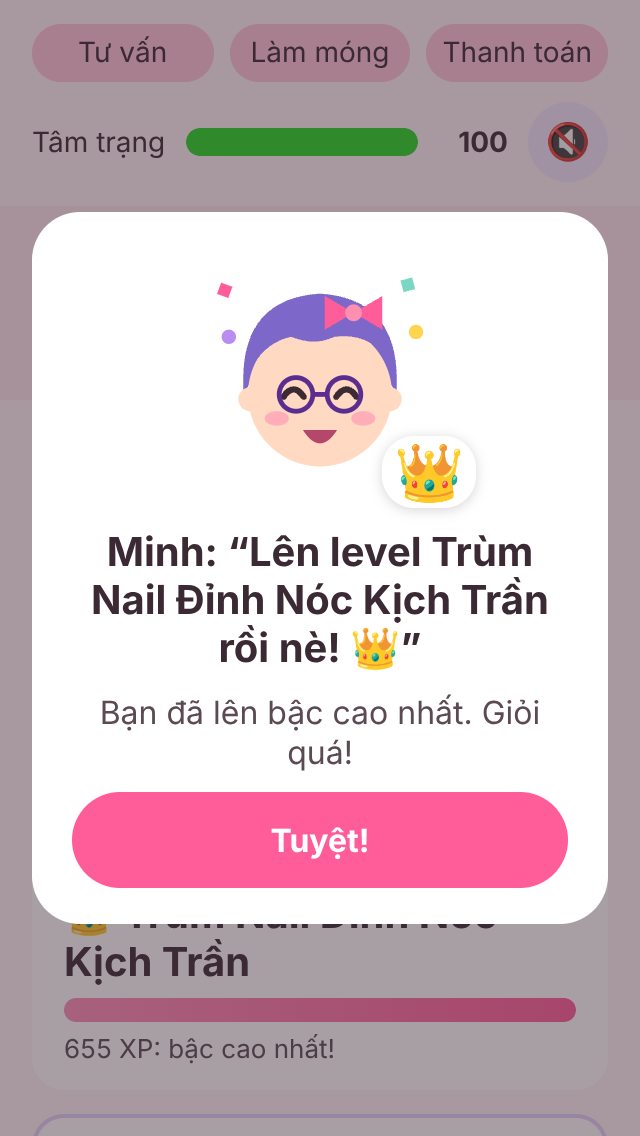
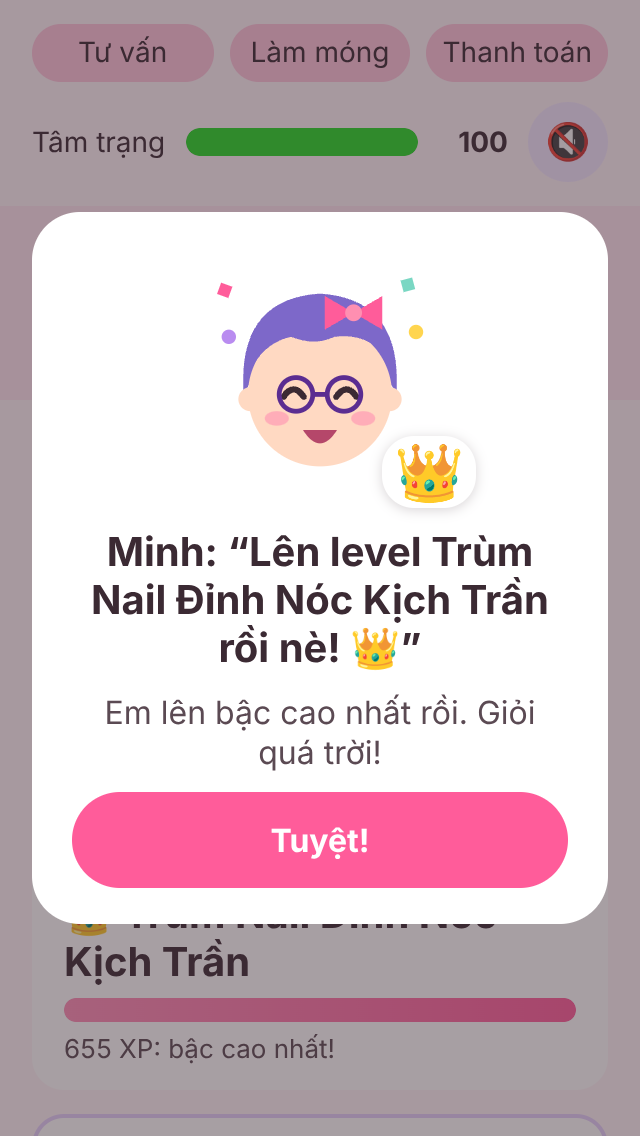
013 review fixes: male companion says "anh", "em" sweep, client pronouns
Overseer review of 7924b1f (smoke:api 12/13: the male-companion reply had
no self-reference):
- Prompts: one shared rule (companion-core vietnameseSelfRule) for every
  Vietnamese bestie and corrections prompt. Male: "Call yourself 'anh'... In
  every Vietnamese reply, refer to yourself as 'anh' at least once (e.g.
  'anh thấy…', 'anh thích…', 'anh tin em làm được'), without forcing it into
  every sentence. Never 'chị', 'tôi' or 'mình' alone." Female: the same
  with "chị". The smoke check is unchanged.
- vi: the top-rank subtitle and every other player-facing "bạn" now say "em"
  ("bạn thân", best friend, stays). Test-guarded by the i18n sweep script.
- Client pronouns: each client file has "pronoun" (Tom: he; the rest: she;
  validated). English results/station text uses {cShe}/{CShe}/{cHer}
  ("He walked out", "his request"), defaulting to "they" when no client is
  given. The generic skill label is "Asking what the client wants". The
  Vietnamese text already said "khách".

Tests: 260 pass (18 files, +1 pronoun test; companion prompt test checks
the "anh at least once" rule). Build passes. Evidence: story-013 re-shot
(en+vi 320).

OVERSEER: please re-run smoke:api (13 checks).

SAFE TO PAUSE. Stopping early to save usage (4:25 PM PT): 013 is done
except art, and the 008/011/012 polish items wait for the owner's playtest
findings rather than guesses.

Claude-Session: https://claude.ai/code/session_01Fx5cxFjSfz8L37QZFocT7H

Changed region(s): [[0.1562, 0.6162, 0.7188, 0.6778], [0.75, 0.6162, 0.8438, 0.647]]

diff --git a/src/game/ui/results-screen.ts b/src/game/ui/results-screen.ts
@@ -1,3 +1,5 @@
+import { clientGrammar } from '../types';
+import type { ClientPronoun } from '../types';
 import { scoreAppointment } from '../scoring';
 import type { ScoreResult, ScoringConfig } from '../scoring';
 import { ENGLISH_KEYS, SKILL_KEYS, TurnError } from '../types';
@@ -29,6 +31,8 @@ export interface ResultsScreenOptions {
   helpLanguage: HelpLanguage;
   /** Story 006: which roster client (sent to grading). */
   clientId?: string;
+  /** The client's pronoun for English text ("She walked out" / "He walked out"); "they" when not given. */
+  clientPronoun?: ClientPronoun;
   /** Story 006: the Next client button's label during a shift ("Next client (2/3)", "Shift done!"). */
   nextLabel?: string;
   /** Story 005: the finished nails and their match (0-100), for the review and the stars. */
@@ -136,6 +140,7 @@ function translatableReview(text: string, translations: TranslationCache, full: 
 /** Mount the results screen into `container` and start grading. `destroy` ignores a grading that is still running. */
 export function createResultsScreen(container: HTMLElement, options: ResultsScreenOptions): { destroy: () => void } {
   const { clientName, result, level, config, grade, onNextClient, onBackToMenu, translations, helpLanguage, extras } = options;
+  const who = clientGrammar(options.clientPronoun);
   let destroyed = false;
 
   const show = (...nodes: HTMLElement[]): void => {
@@ -145,7 +150,7 @@ export function createResultsScreen(container: HTMLElement, options: ResultsScre
   const showLoading = (): void => {
     const box = el('div', 'results-message');
     box.setAttribute('role', 'status');
-    box.append(el('p', '', t('results.writingReview', { name: clientName })), el('span', 'results-spinner'));
+    box.append(el('p', '', t('results.writingReview', { ...who, name: clientName })), el('span', 'results-spinner'));
     show(box);
   };
 
@@ -154,7 +159,7 @@ export function createResultsScreen(container: HTMLElement, options: ResultsScre
     box.setAttribute('role', 'alert');
     const unavailable = error instanceof TurnError && error.code === 'missing_api_key';
     box.append(
-      el('p', '', guardMessage(error) ?? (unavailable ? t('results.reviewUnavailable') : t('results.reviewTrouble', { name: clientName }))),
+      el('p', '', guardMessage(error) ?? (unavailable ? t('results.reviewUnavailable') : t('results.reviewTrouble', { ...who, name: clientName }))),
       button(t('common.tryAgain'), () => void run()),
       button(t('results.backToMenu'), onBackToMenu, true),
     );
@@ -171,9 +176,9 @@ export function createResultsScreen(container: HTMLElement, options: ResultsScre
     tip.append(el('span', '', `${t('results.tip')}: `), el('strong', '', t('results.tipAmount', { dollars: score.tip })));
 
     const notes: HTMLElement[] = [];
-    if (score.goalMet) notes.push(el('p', 'results-note good', t('results.goalMet')));
-    else if (grading.rebooked && !score.failed) notes.push(el('p', 'results-note', t('results.rebooked')));
-    score.failReasons.forEach((reason) => notes.push(el('p', 'results-note bad', t(`results.fail.${reason}`))));
+    if (score.goalMet) notes.push(el('p', 'results-note good', t('results.goalMet', who)));
+    else if (grading.rebooked && !score.failed) notes.push(el('p', 'results-note', t('results.rebooked', who)));
+    score.failReasons.forEach((reason) => notes.push(el('p', 'results-note bad', t(`results.fail.${reason}`, who))));
 
     const actions = el('div', 'results-actions');
     actions.append(button(options.nextLabel ?? t('results.nextClient'), onNextClient), button(t('results.backToMenu'), onBackToMenu, true));

diff --git a/src/game/i18n/index.ts b/src/game/i18n/index.ts
@@ -1,6 +1,7 @@
 import { companionFrom, companionGrammar } from '../companion-core';
 import { readStored } from '../safe-storage';
 import { getHelpLanguage } from '../settings';
+import { clientGrammar } from '../types';
 import en from './en.json';
 import vi from './vi.json';
 
@@ -24,7 +25,7 @@ const PLACEHOLDER = /\{(\w+)\}/g;
  * "Anh/anh"), {maiShe}/{maiHer} (English she/her or he/his). Grammar exists in one language only, so these may appear
  * in just one table. {mai}, the companion's name, is filled too but must appear in both, like any placeholder.
  */
-export const GRAMMAR_PLACEHOLDERS: readonly string[] = ['self', 'selfLower', 'maiShe', 'maiHer'];
+export const GRAMMAR_PLACEHOLDERS: readonly string[] = ['self', 'selfLower', 'maiShe', 'maiHer', 'cShe', 'CShe', 'cHer'];
 
 /** The companion params for `t`, from the device's saved companion (Mai, female by default). */
 export function companionParams(): StringParams {
@@ -86,7 +87,10 @@ export function getLanguage(): Language {
 /** Interface text for `key` in `language` (the saved language by default). */
 export function t(key: StringKey, params?: StringParams, language: Language = getLanguage()): string {
   const template = TABLES[language][key];
-  return fillTemplate(template, /\{(mai|self|selfLower|maiShe|maiHer)\}/.test(template) ? { ...companionParams(), ...params } : params);
+  // Client grammar ({cShe}/{CShe}/{cHer}) defaults to "they" when the caller doesn't say who the client is.
+  const companion = /\{(mai|self|selfLower|maiShe|maiHer)\}/.test(template) ? companionParams() : {};
+  const client = /\{(cShe|CShe|cHer)\}/.test(template) ? clientGrammar() : {};
+  return fillTemplate(template, { ...client, ...companion, ...params });
 }
 
 /** Keep `<html lang>` in step with the interface language, so screen readers and fonts use the right voice and shaping. */

diff --git a/src/game/companion-core.ts b/src/game/companion-core.ts
@@ -79,6 +79,16 @@ export function companionGrammar(gender: CompanionGender): { self: string; selfL
   return gender === 'male' ? { self: 'Anh', selfLower: 'anh', she: 'he', She: 'He', her: 'his' } : { self: 'Chị', selfLower: 'chị', she: 'she', She: 'She', her: 'her' };
 }
 
+/**
+ * How the companion talks about themself in Vietnamese (overseer, 2026-11-10: the male companion must sound like a
+ * friendly "anh", as naturally as Mai says "chị"). Used by every Vietnamese bestie and corrections prompt.
+ */
+export function vietnameseSelfRule(gender: CompanionGender): string {
+  return gender === 'male'
+    ? 'You are a man. Call yourself "anh" and the player "em", like a friendly older brother at the salon. In every Vietnamese reply, refer to yourself as "anh" at least once (for example "anh thấy…", "anh thích…", "anh tin em làm được", "để anh chỉ em"), without forcing it into every sentence. Never call yourself "chị", "tôi" or "mình" alone.'
+    : 'Call yourself "chị" and the player "em", like a friendly older sister at the salon. Refer to yourself as "chị" naturally (for example "chị thấy…", "chị thích…", "chị tin em làm được"). Never call yourself "tôi".';
+}
+
 /** Fill a persona template ({name}, {She}, {she}, {her}) for this companion. */
 export function personaFor(template: string, companion: CompanionIdentity): string {
   const g = companionGrammar(companion.gender);

diff --git a/src/game/types.ts b/src/game/types.ts
@@ -51,6 +51,8 @@ export interface ClientPersona {
   /** Story 005: what the client wants done to her nails, as data (compared with the finished design). */
   nailRequest?: NailRequest;
   /** Story 006: roster data. */
+  /** Story 006 follow-up: the client's pronoun for English interface text (Tom is "he"). */
+  pronoun: ClientPronoun;
   difficulty: Difficulty;
   /** The hard-client types this client covers (the brief's list). */
   types: ClientType[];
@@ -63,6 +65,13 @@ export interface ClientPersona {
 }
 
 export const DIFFICULTIES = ['easy', 'medium', 'hard'] as const;
+export const CLIENT_PRONOUNS = ['she', 'he', 'they'] as const;
+export type ClientPronoun = (typeof CLIENT_PRONOUNS)[number];
+
+/** English interface grammar for a client: {cShe}/{CShe}/{cHer} in the string tables ("they" when unknown). */
+export function clientGrammar(pronoun: ClientPronoun = 'they'): { cShe: string; CShe: string; cHer: string } {
+  return pronoun === 'he' ? { cShe: 'he', CShe: 'He', cHer: 'his' } : pronoun === 'she' ? { cShe: 'she', CShe: 'She', cHer: 'her' } : { cShe: 'they', CShe: 'They', cHer: 'their' };
+}
 export type Difficulty = (typeof DIFFICULTIES)[number];
 /** The brief's hard-client types (story 006). */
 export const CLIENT_TYPES = ['picky', 'rude-impatient', 'complaint-redo', 'price-booking'] as const;

diff --git a/src/server/handlers/bestie.ts b/src/server/handlers/bestie.ts
@@ -1,4 +1,4 @@
-import { companionFrom, companionGrammar, personaFor } from '../../game/companion-core';
+import { companionFrom, personaFor, vietnameseSelfRule } from '../../game/companion-core';
 import type { CompanionIdentity } from '../../game/companion-core';
 import { BESTIE_CONFIG } from '../../game/bestie';
 import type {
@@ -149,8 +149,7 @@ export function parseBestieOutput(request: BestieRequest, upstream: unknown, max
 /** How the bestie talks, by coaching language and the player's English level. */
 function voiceRules(language: BestieLanguage, level: EnglishLevel, companion: CompanionIdentity): string {
   if (language === 'vi') {
-    const self = companionGrammar(companion.gender).selfLower;
-    return `- Talk to the player in natural, warm Vietnamese, the way two friends talk in a Vietnamese nail salon. Call yourself "${self}" and the player "em".${companion.gender === 'male' ? ' You are a man: always "anh", never "chị".' : ''}
+    return `- Talk to the player in natural, warm Vietnamese, the way two friends talk in a Vietnamese nail salon. ${vietnameseSelfRule(companion.gender)}
 - Any English line you suggest the player say to a client stays in English, inside quotation marks, pitched to a ${level} English learner.`;
   }
   const simple = level === 'beginner' || level === 'some';

diff --git a/src/server/handlers/corrections.ts b/src/server/handlers/corrections.ts
@@ -1,4 +1,4 @@
-import { companionFrom, companionGrammar, personaFor } from '../../game/companion-core';
+import { companionFrom, personaFor, vietnameseSelfRule } from '../../game/companion-core';
 import type { CompanionIdentity } from '../../game/companion-core';
 import type { BestieLanguage } from '../../game/bestie';
 import { BESTIE_CONFIG } from '../../game/bestie';
@@ -117,7 +117,7 @@ const LEVEL_FOCUS: Record<EnglishLevel, string> = {
 
 const reasonLanguage = (language: BestieLanguage, companion: CompanionIdentity): string =>
   language === 'vi'
-    ? `Write praise and reasons in natural, warm Vietnamese (call yourself "${companionGrammar(companion.gender).selfLower}" and the player "em"${companion.gender === 'male' ? '; you are a man: always "anh", never "chị"' : ''}). The English lines stay in English.`
+    ? `Write praise and reasons in natural, warm Vietnamese. ${vietnameseSelfRule(companion.gender)} The English lines stay in English.`
     : 'Write praise and reasons in simple, friendly English.';
 
 const SHARED_RULES = (level: EnglishLevel, language: BestieLanguage, companion: CompanionIdentity = companionFrom(null)): string => `You are ${companion.name}, the kind best friend of a Vietnamese nail technician learning English. ${personaFor(BESTIE_CONFIG.persona, companion)}

diff --git a/src/tests/roster.test.ts b/src/tests/roster.test.ts
@@ -85,3 +85,18 @@ describe('difficulty in play', () => {
     expect(JSON.parse(sent).system[0].text).toContain('roleplaying Tom');
   });
 });
+
+describe('client pronouns (follow-up)', () => {
+  it('every client has a pronoun; English results text follows it, "they" when unknown', async () => {
+    const { t } = await import('../game/i18n');
+    const { clientGrammar } = await import('../game/types');
+    expect(getClient('tom')?.pronoun).toBe('he');
+    expect(getClient('dana')?.pronoun).toBe('she');
+    expect(t('results.fail.walked_out', clientGrammar(getClient('tom')?.pronoun), 'en')).toBe('He walked out. You can try again!');
+    expect(t('results.fail.walked_out', clientGrammar(getClient('dana')?.pronoun), 'en')).toBe('She walked out. You can try again!');
+    expect(t('results.fail.low_stars', {}, 'en')).toBe('Not their best visit. Try again!');
+    expect(t('station.doneMessage', { ...clientGrammar('he'), score: 90 }, 'en')).toBe('Nails done! They match his request: 90%.');
+    const good = { ...structuredClone(ROSTER[0]) } as Record<string, unknown>;
+    expect(() => parseClient({ ...good, pronoun: 'it' }, 'x.json')).toThrow(/"pronoun"/);
+  });
+});

diff --git a/src/game/ui/nail-station-panel.ts b/src/game/ui/nail-station-panel.ts
@@ -1,3 +1,5 @@
+import { clientGrammar } from '../types';
+import type { ClientPronoun } from '../types';
 import type { Container } from 'pixi.js';
 import { getLanguage, t } from '../i18n';
 import { NAIL_ART_CONFIG, emptyDesign } from '../nail-art/design';
@@ -31,6 +33,8 @@ export interface NailStationOptions {
   /** Story 007: the colours on offer (free ones plus bought shop polishes) and the tool sizes (shop upgrades). */
   palette?: PaletteColor[];
   tools?: StationTools;
+  /** The client's pronoun for the Done message ("her request" / "his request"). */
+  clientPronoun?: ClientPronoun;
 }
 
 export interface NailStation {
@@ -121,7 +125,7 @@ export function createNailStation(options: NailStationOptions): NailStation {
   const doneButton = button(t('station.done'), 'station-done', () => {
     if (done) return;
     const result = finish();
-    say(t('station.doneMessage', { score: result.score }), true);
+    say(t('station.doneMessage', { ...clientGrammar(options.clientPronoun), score: result.score }), true);
     emitSound(result.moodDelta >= 0 ? 'moodUp' : 'moodDown');
     options.onDone(design, result);
   });

diff --git a/src/game/clients/roster.ts b/src/game/clients/roster.ts
@@ -1,6 +1,6 @@
 import { NAIL_ART_CONFIG } from '../nail-art/design';
 import type { NailRequest } from '../nail-art/design';
-import { CLIENT_TYPES, DIFFICULTIES } from '../types';
+import { CLIENT_PRONOUNS, CLIENT_TYPES, DIFFICULTIES } from '../types';
 import type { ClientPersona, ClientType, Difficulty } from '../types';
 
 /**
@@ -44,8 +44,10 @@ export function parseClient(raw: unknown, file: string): ClientPersona {
     const gradient = ['no', 'ok', 'yes'].includes(n.gradient as string) ? (n.gradient as 'no' | 'ok' | 'yes') : fail('"nailRequest.gradient" must be no, ok or yes');
     nailRequest = { shapes, colors, gradient, gems: level(n.gems, 'gems'), stickers: level(n.stickers, 'stickers') };
   }
+  const pronoun = CLIENT_PRONOUNS.find((p) => p === raw.pronoun) ?? fail('"pronoun" must be she, he or they');
   return {
     id,
+    pronoun,
     name: text('name', 30),
     portraitId: text('portraitId', 30),
     difficulty,

diff --git a/src/tests/companion.test.ts b/src/tests/companion.test.ts
@@ -64,7 +64,11 @@ describe('gender and grammar', () => {
     for (const system of systems) {
       expect(system).toMatch(/You are Minh/);
       expect(system).toMatch(/call yourself "anh"/i);
-      expect(system).not.toMatch(/call yourself "chị"/i);
+      expect(system).toMatch(/refer to yourself as "anh" at least once/);
+      expect(system).toMatch(/anh thấy/);
+      // The male rule may say 'Never call yourself "chị"', but never tells him to.
+      expect(system).not.toMatch(/Call yourself "chị"/);
+      expect(system).toMatch(/Never call yourself "chị"/);
       expect(system).not.toMatch(/You are Mai/);
     }
     const { systems: female, fetchImpl: f2 } = capture();

diff --git a/src/game/ui/chat-panel.ts b/src/game/ui/chat-panel.ts
@@ -177,6 +177,7 @@ export function createChatPanel(
         zone: zone.element,
         layer: portraits.layer,
         request: nailArt.request,
+        clientPronoun: portraits.client.pronoun,
         ...(nailArt.palette ? { palette: nailArt.palette } : {}),
         ...(nailArt.tools ? { tools: nailArt.tools } : {}),
         maiSide: () => (mai ? ((mai.element.dataset.side as 'left' | 'right' | undefined) ?? 'right') : null),

diff --git a/src/main.ts b/src/main.ts
@@ -316,6 +316,7 @@ async function boot(): Promise<void> {
         createResultsScreen(container, {
           clientName: client.name,
           clientId: client.id,
+          clientPronoun: client.pronoun,
           result,
           level,
           config: SCORING_CONFIG,
